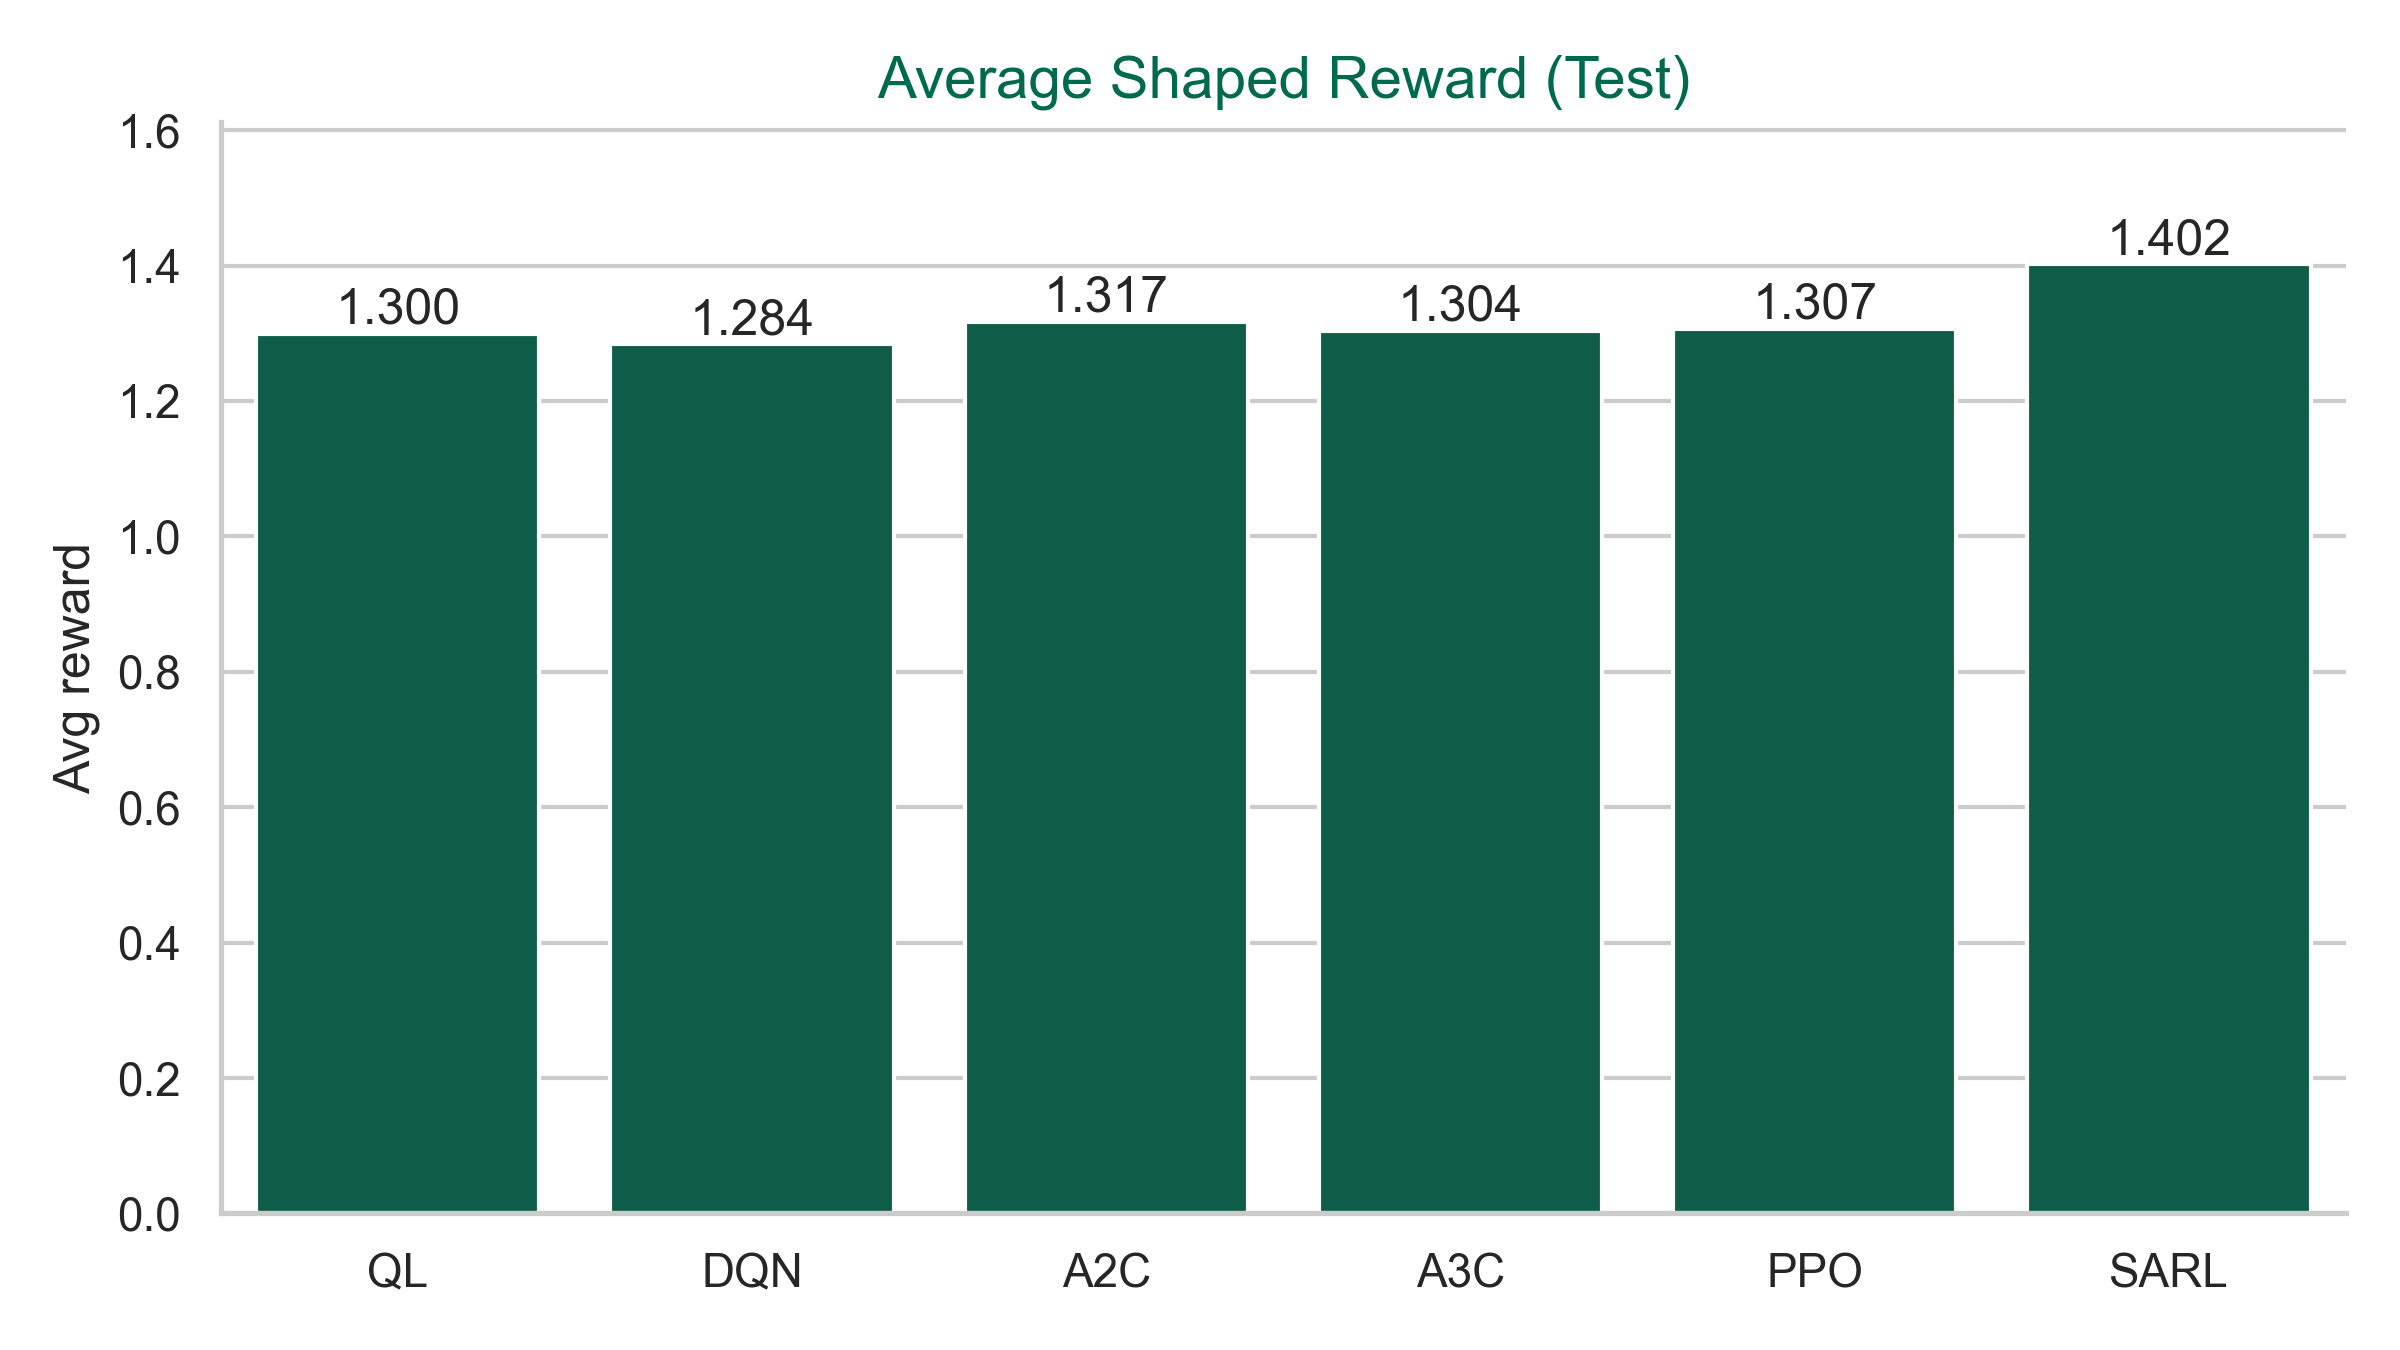
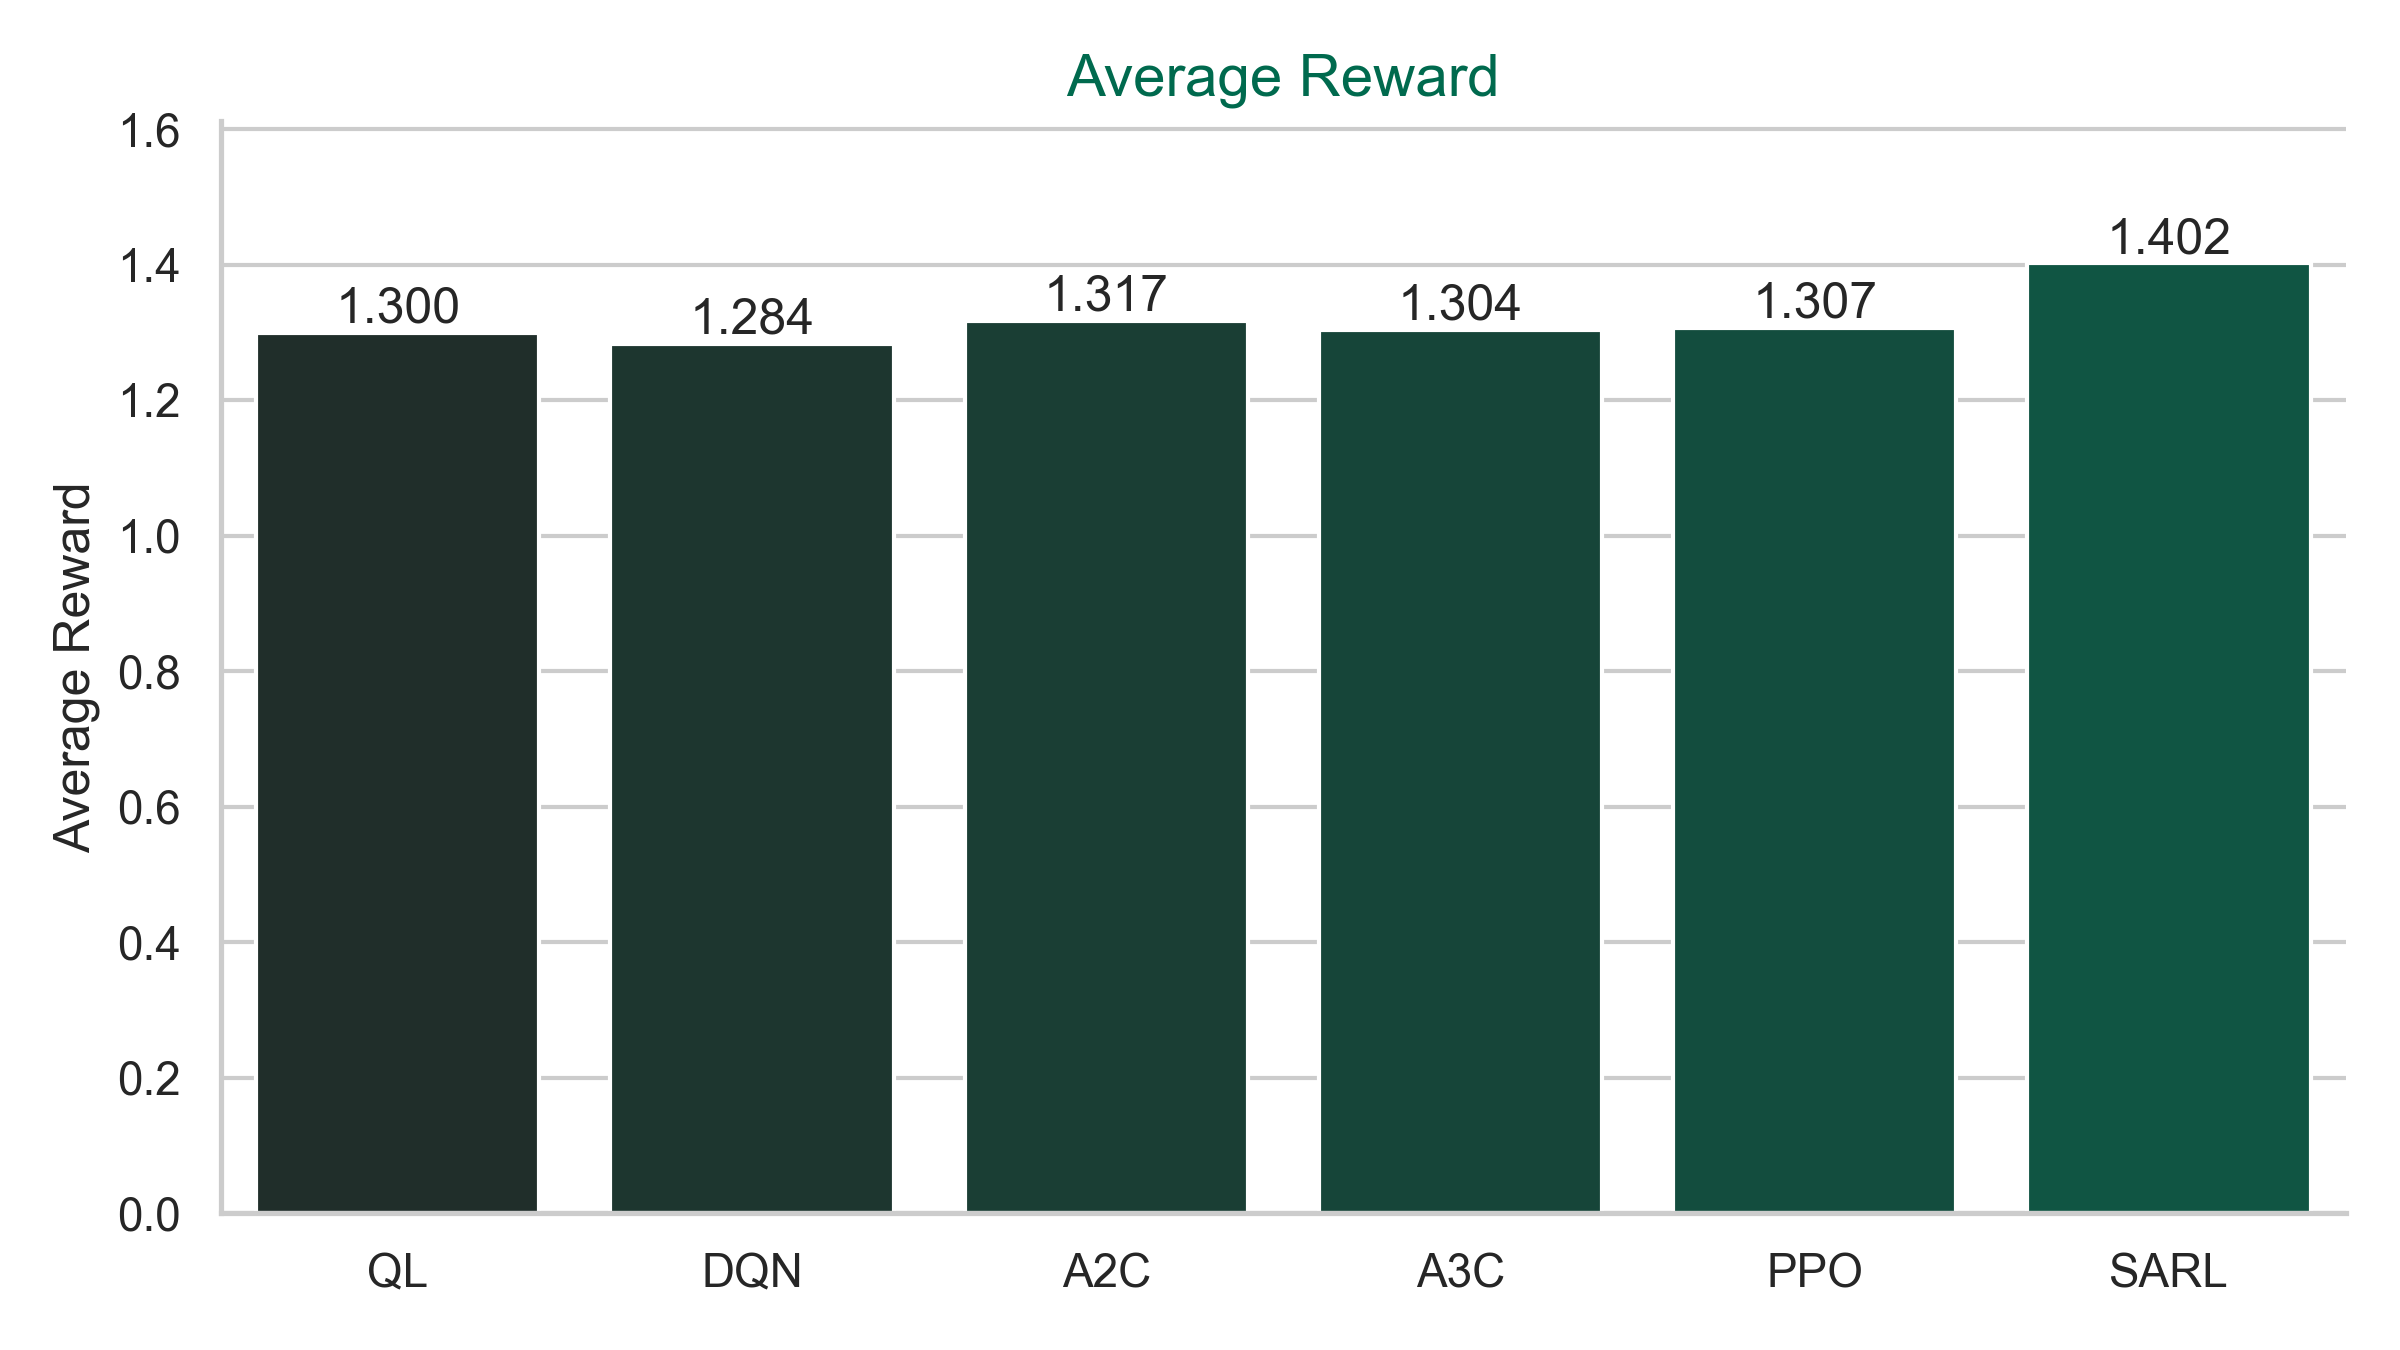
Final poster image changes

diff --git a/curriculum_sequencing_rl/plot_poster.py b/curriculum_sequencing_rl/plot_poster.py
@@ -186,16 +186,26 @@ def plot_reward_bar(df: pd.DataFrame, outdir: Path) -> None:
         print("[INFO] Skipping reward bar (no 'reward' column)")
         return
     fig, ax = plt.subplots(figsize=(8, 4.5))
+    n = df["model"].nunique() if "model" in df.columns else len(df)
+    # Darker monotone variations around the theme; avoid extremes
+    pal_full = sns.dark_palette(THEME_HEX, n_colors=max(n + 2, 3), reverse=False)
+    pal = pal_full[1:-1] if n >= 2 else pal_full
     sns.barplot(
         data=df,
         x="model",
         y="reward",
-        color=THEME_HEX,
+        hue="model",
+        palette=pal,
+        dodge=False,
         ax=ax,
     )
-    ax.set_title("Average Shaped Reward (Test)", color=THEME_HEX)
+    # Remove legend introduced by hue mapping
+    leg = ax.get_legend()
+    if leg is not None:
+        leg.remove()
+    ax.set_title("Average Reward", color=THEME_HEX)
     ax.set_xlabel("")
-    ax.set_ylabel("Avg reward")
+    ax.set_ylabel("Average Reward")
     ax.margins(y=0.15)
     _annotate_bars(ax, fmt="{:.3f}")
     sns.despine()
@@ -236,16 +246,26 @@ def plot_regret_ratio_bar(df: pd.DataFrame, outdir: Path) -> None:
         print("[INFO] Skipping regret ratio bar (no 'regret_ratio' column)")
         return
     fig, ax = plt.subplots(figsize=(8, 4.5))
+    n = df["model"].nunique() if "model" in df.columns else len(df)
+    # Darker monotone variations around the theme; avoid extremes
+    pal_full = sns.dark_palette(THEME_HEX, n_colors=max(n + 2, 3), reverse=False)
+    pal = pal_full[1:-1] if n >= 2 else pal_full
     sns.barplot(
         data=df,
         x="model",
         y=col,
-        color=THEME_HEX,
+        hue="model",
+        palette=pal,
+        dodge=False,
         ax=ax,
     )
+    # Remove legend introduced by hue mapping
+    leg = ax.get_legend()
+    if leg is not None:
+        leg.remove()
     ax.set_title("Regret Ratio", color=THEME_HEX)
     ax.set_xlabel("")
-    ax.set_ylabel("Regret ratio (%)" if col.endswith("pct") else "Regret ratio")
+    ax.set_ylabel("Regret Ratio (%)" if col.endswith("pct") else "Regret ratio")
     # Two-decimal formatting for both annotations and y-axis ticks
     fmt = "{:.2f}%" if col.endswith("pct") else "{:.2f}"
     ax.yaxis.set_major_formatter(mtick.FormatStrFormatter('%.2f'))
@@ -273,8 +293,8 @@ def plot_hybrid_shares(df: pd.DataFrame, outdir: Path) -> None:
     # Use monotone theme palette for stacked bars
     stack_pal = sns.light_palette(THEME_HEX, n_colors=3, reverse=False)
     p1 = ax.bar(x, base, width, label="Short Term Gain", color=stack_pal[2])
-    p2 = ax.bar(x, mast, width, bottom=base, label="Mastery", color=stack_pal[1])
-    p3 = ax.bar(x, motiv, width, bottom=base+mast, label="Motivation", color=stack_pal[0])
+    p2 = ax.bar(x, mast, width, bottom=base, label="Knowledge Growth", color=stack_pal[1])
+    p3 = ax.bar(x, motiv, width, bottom=base+mast, label="Curiosity & Challenge", color=stack_pal[0])
 
     ax.set_title("Contribution Shares (%)", color=THEME_HEX)
     ax.set_xticks(x)
@@ -299,7 +319,45 @@ def plot_hybrid_shares(df: pd.DataFrame, outdir: Path) -> None:
     except Exception:
         pass
 
-    # Removed total=100% annotations per request
+    # Annotate each stacked segment (no % sign)
+    label_min = 3.0  # skip very small slices
+    for i, (r1, r2, r3) in enumerate(zip(p1, p2, p3)):
+        # Base segment (dark) — white text
+        h1 = r1.get_height()
+        if not np.isnan(h1) and h1 >= label_min:
+            ax.text(
+                r1.get_x() + r1.get_width() / 2.0,
+                h1 / 2.0,
+                f"{base[i]:.2f}",
+                ha="center",
+                va="center",
+                color="white",
+                fontsize=9,
+            )
+        # Mastery segment (mid) — dark text
+        h2 = r2.get_height()
+        if not np.isnan(h2) and h2 >= label_min:
+            ax.text(
+                r2.get_x() + r2.get_width() / 2.0,
+                base[i] + h2 / 2.0,
+                f"{mast[i]:.2f}",
+                ha="center",
+                va="center",
+                color="#1a1a1a",
+                fontsize=9,
+            )
+        # Motivation segment (light) — dark text
+        h3 = r3.get_height()
+        if not np.isnan(h3) and h3 >= label_min:
+            ax.text(
+                r3.get_x() + r3.get_width() / 2.0,
+                base[i] + mast[i] + h3 / 2.0,
+                f"{motiv[i]:.2f}",
+                ha="center",
+                va="center",
+                color="#1a1a1a",
+                fontsize=9,
+            )
 
     sns.despine()
     fig.tight_layout()
